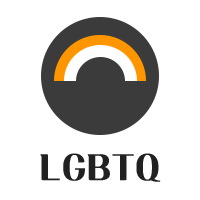
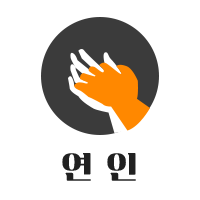
메인페이지 게시판수정

Changed region(s): [[0.27, 0.15, 0.75, 0.69], [0.18, 0.75, 0.81, 0.93]]

diff --git a/index.html b/index.html
@@ -79,11 +79,11 @@
             <!-- 게시판행 버튼들 -->
             <div class="Top-bar1 row justify-content-center">
                 <div class="Top-bar1-buttons row">
-                    <img class="board" src="static/image/board01.png" onclick="location.href='board.html?boards=직장인'" >
-                    <img class="board" src="static/image/board02.png" onclick="location.href='board.html?boards=대학생'">
                     <img class="board" src="static/image/board03.png" onclick="location.href='board.html?boards=10대'">
-                    <img class="board" src="static/image/board04.png" onclick="location.href='board.html?boards=성인'">
-                    <img class="board" src="static/image/board05.png" onclick="location.href='board.html?boards=LGBTQ'">
+                    <img class="board" src="static/image/board02.png" onclick="location.href='board.html?boards=20대'">
+                    <img class="board" src="static/image/board04.png" onclick="location.href='board.html?boards=30대'">
+                    <img class="board" src="static/image/board01.png" onclick="location.href='board.html?boards=직장인'" >
+                    <img class="board" src="static/image/board05.png" onclick="location.href='board.html?boards=연인'">
                     <img class="board" src="static/image/board06.png" onclick="location.href='board.html?boards=자유'">
                     <img class="board" src="static/image/board07.png" onclick="location.href='board.html?boards=HOT'">
                 </div>
@@ -112,15 +112,15 @@
                 <div class="board-class">
                     <div class="row">
                         <div class="second-floor-board col">
-                            <!-- 직장인게시판 -->
+                            <!--  청소년게시판 -->
                             <div class="worker-board row justify-content-center">
-                                <img class="board" src="static/image/board01.png" onclick="location.href='board.html?boards='">
-                                <div class="mainpage-article-list">
-                                    <!-- 직장인게시글 for문 -->
-                                    <div id="company-box" style="cursor: pointer;"></div>
-
+                                <img class="board" src="static/image/board03.png" onclick="location.href='board.html?boards='">
+                                <div class="mainpage-article-list" >
+                                    <!-- 청소년 게시글 for문 -->
+                                    <div id="teen-box" style="cursor: pointer;"></div>
                                 </div>
                             </div>
+                        
                         </div>
                         <div class="second-floor-board col">
                             <!-- 대학생 게시판 -->
@@ -133,12 +133,12 @@
                             </div>
                         </div>
                         <div class="second-floor-board col">
-                            <!--  청소년게시판 -->
+                            <!--  30대 게시판 -->
                             <div class="worker-board row justify-content-center">
-                                <img class="board" src="static/image/board03.png" onclick="location.href='board.html?boards='">
-                                <div class="mainpage-article-list" >
-                                    <!-- 청소년 게시글 for문 -->
-                                    <div id="teen-box" style="cursor: pointer;"></div>
+                                <img class="board" src="static/image/board04.png" onclick="location.href='board.html?boards='">
+                                <div class="mainpage-article-list">
+                                    <!-- 30대 게시글 for문 -->
+                                    <div id="adult-box" style="cursor: pointer;"></div>
                                 </div>
                             </div>
                         </div>
@@ -146,11 +146,22 @@
                     <!-- 아래줄 -->
                     <div class="row">
                         <div class="second-floor-board col">
-                            <!--  LGBTQ 게시판 -->
+                            <!-- 직장인게시판 -->
+                            <div class="worker-board row justify-content-center">
+                                <img class="board" src="static/image/board01.png" onclick="location.href='board.html?boards='">
+                                <div class="mainpage-article-list">
+                                    <!-- 직장인게시글 for문 -->
+                                    <div id="company-box" style="cursor: pointer;"></div>
+
+                                </div>
+                            </div>
+                        </div>
+                        <div class="second-floor-board col">
+                            <!--  연인 게시판 -->
                             <div class="worker-board row justify-content-center">
                                 <img class="board" src="static/image/board05.png" onclick="location.href='board.html?boards='">
                                 <div class="mainpage-article-list">
-                                    <!-- LGBTQ 게시글 for문 -->
+                                    <!-- 연인 게시글 for문 -->
                                     <div id="lgbtq-box" style="cursor: pointer;"></div>
                                 </div>
                             </div>
@@ -162,16 +173,6 @@
                                 <div class="mainpage-article-list">
                                     <!-- 자유 게시글 for문 -->
                                     <div id="free-box" style="cursor: pointer;"></div>
-                                </div>
-                            </div>
-                        </div>
-                        <div class="second-floor-board col">
-                            <!--  성인 게시판 -->
-                            <div class="worker-board row justify-content-center">
-                                <img class="board" src="static/image/board04.png" onclick="location.href='board.html?boards='">
-                                <div class="mainpage-article-list">
-                                    <!-- 성인 게시글 for문 -->
-                                    <div id="adult-box" style="cursor: pointer;"></div>
                                 </div>
                             </div>
                         </div>

diff --git a/static/Scripts/main.js b/static/Scripts/main.js
@@ -25,7 +25,7 @@ async function getArticlesByBoard() {
     }
 
     const myData = async () => {
-        const response = await fetch(`${backend_base_url}/article/board/?boards=직장인&boards=대학생&boards=10대&boards=LGBTQ&boards=자유&boards=성인`, {
+        const response = await fetch(`${backend_base_url}/article/board/?boards=직장인&boards=20대&boards=10대&boards=연인&boards=자유&boards=30대`, {
             method: 'GET',
             headers: {
                 'Content-Type': 'application/json',
@@ -55,8 +55,8 @@ async function getArticlesByBoard() {
         }
         try {
             for (let i = 0; i < 5; i++) {
-                let title = detail[1]['대학생'][i]['article_title']
-                let id = detail[1]['대학생'][i]['id']
+                let title = detail[1]['20대'][i]['article_title']
+                let id = detail[1]['20대'][i]['id']
                 let temp_html = `
                 <div class="board-title" id="worker" onclick="location.href='${frontend_base_url}/detail.html?id=${id}'">${title}
             </div>`
@@ -77,8 +77,8 @@ async function getArticlesByBoard() {
         } catch (err) { }
         try {
             for (let i = 0; i < 5; i++) {
-                let title = detail[3]['LGBTQ'][i]['article_title']
-                let id = detail[3]['LGBTQ'][i]['id']
+                let title = detail[3]['연인'][i]['article_title']
+                let id = detail[3]['연인'][i]['id']
                 let temp_html = `
                 <div class="board-title" id="worker" onclick="location.href='${frontend_base_url}/detail.html?id=${id}'">${title}
             </div>`
@@ -99,8 +99,8 @@ async function getArticlesByBoard() {
         } catch (err) { }
         try {
             for (let i = 0; i < 5; i++) {
-                let title = detail[5]['성인'][i]['article_title']
-                let id = detail[5]['성인'][i]['id']
+                let title = detail[5]['30대'][i]['article_title']
+                let id = detail[5]['30대'][i]['id']
                 let temp_html = `
                 <div class="board-title" id="worker" onclick="location.href='${frontend_base_url}/detail.html?id=${id}'">${title}
             </div>`

diff --git a/board.html b/board.html
@@ -60,11 +60,11 @@
         <!-- 게시판행 버튼들 -->
         <div class="Top-bar1">
             <div class="Top-bar1-buttons row">
-                <img class="board" src="static/image/board01.png" onclick="location.href='board.html?boards=직장인'">
-                <img class="board" src="static/image/board02.png" onclick="location.href='board.html?boards=대학생'">
                 <img class="board" src="static/image/board03.png" onclick="location.href='board.html?boards=10대'">
-                <img class="board" src="static/image/board04.png" onclick="location.href='board.html?boards=성인'">
-                <img class="board" src="static/image/board05.png" onclick="location.href='board.html?boards=LGBTQ'">
+                <img class="board" src="static/image/board02.png" onclick="location.href='board.html?boards=20대'">
+                <img class="board" src="static/image/board04.png" onclick="location.href='board.html?boards=30대'">
+                <img class="board" src="static/image/board01.png" onclick="location.href='board.html?boards=직장인'">
+                <img class="board" src="static/image/board05.png" onclick="location.href='board.html?boards=연인'">
                 <img class="board" src="static/image/board06.png" onclick="location.href='board.html?boards=자유'">
                 <img class="board" src="static/image/board07.png" onclick="location.href='board.html?boards=HOT'">
             </div>

diff --git a/posting.html b/posting.html
@@ -54,12 +54,12 @@
                         <div class="title-space-input col">
                             <select class="form-select" aria-label=".form-select-lg example" style="border-radius: 0;" id="board">
                                 <option selected>업로드 할 게시판을 선택해주세요</option>
-                                <option value="직장인">직장인 게시판</option>
-                                <option value="대학생">대학생 게시판</option>
                                 <option value="10대">10대 게시판</option>
+                                <option value="20대">20대 게시판</option>
+                                <option value="30대">30대 게시판</option>
+                                <option value="직장인">직장인 게시판</option>
+                                <option value="연인">연인 게시판</option>
                                 <option value="자유">자유 게시판</option>
-                                <option value="성인">성인 게시판</option>
-                                <option value="LGBTQ">LGBTQ 게시판</option>
                             </select>
                         </div>
                     </div>
